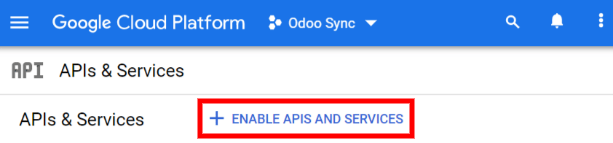
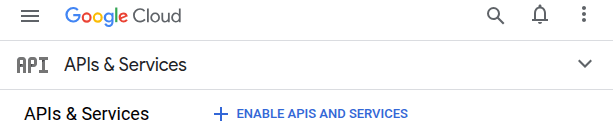
[IMP] calendar: update authorization steps
closes odoo/documentation#12320

X-original-commit: 7a2e6512cba50b832ab94b4641489d23c9c7b2a9

diff --git a/content/applications/productivity/calendar/google.rst b/content/applications/productivity/calendar/google.rst
@@ -29,14 +29,14 @@ in, and store credentials. Click :guilabel:`New Project`.
 .. image:: google/new-api-project.png
    :alt: Create a new API project to store credentials.
 
-.. tip::
-   Give the API Project a clear name, like "Odoo Sync", so it can be easily identified.
+Give the API project a clear name, like `Odoo Sync`, so it can be identified. Then click the
+:guilabel:`Create` button.
 
 Enable Google calendar API
 --------------------------
 
 Now, click on :guilabel:`Enabled APIs and Services` in the left menu. Select :guilabel:`Enabled APIs
-and Services` again if the :guilabel:`Search bar` doesn't appear.
+and Services` again if the :guilabel:`Search bar` does not appear.
 
 .. image:: google/enable-apis-services.png
    :alt: Enable APIs and Services on the API Project.
@@ -51,7 +51,7 @@ OAuth consent screen
 --------------------
 
 Now that the API project has been created, OAuth should be configured. To do that, click on
-:guilabel:`OAuth consent` in the left menu and then select the :guilabel:`User Type`.
+:guilabel:`OAuth consent screen` in the left menu, then click the :guilabel:`Get started` button.
 
 .. warning::
    *Personal* Gmail Accounts are only allowed to be **External** User Type, which means Google may
@@ -61,26 +61,38 @@ Now that the API project has been created, OAuth should be configured. To do tha
    Note, as well, that while the API connection is in the *External* testing mode, then no approval
    is necessary from Google. User limits in this testing mode is set to 100 users.
 
-In the second step, :guilabel:`OAuth Consent Screen`, type `Odoo` in the :guilabel:`App name` field,
-select the email address for the :guilabel:`User support email` field, and type the email address
-for the :guilabel:`Developer contact information` section. Then, click :guilabel:`Save and
-Continue`.
+Follow the proceeding steps, in order:
 
-Skip the third step, :menuselection:`Scopes`, by clicking :guilabel:`Save and Continue`.
+#. In :guilabel:`App Information`, type `Odoo` in the :guilabel:`App name` field, then enter the
+   email address for the :guilabel:`User support email` field and click the :guilabel:`Next` button.
+#. In :guilabel:`Audience`, select :guilabel:`External`, then click the :guilabel:`Next` button.
+#. In :guilabel:`Contact Information`, enter the email again, then click the :guilabel:`Next`
+   button.
+#. In :guilabel:`Finish`, tick the checkbox to agree to :guilabel:`Google API Services: User
+   Policy.` For the last step, click the :guilabel:`Create` button.
 
-Next, if continuing in testing mode (External), add the email addresses being configured under the
-:guilabel:`Test users` step, by clicking on :guilabel:`Add Users`, and then the :guilabel:`Save and
-Continue` button. A summary of the app registration appears.
+Authorized domain setup
+-----------------------
 
-Finally, scroll to the bottom, and click on :guilabel:`Back to Dashboard`.
+Next, any domains set to appear on the consent screen or in an OAuth client's configuration must be
+pre-registered. To do so, navigate to :guilabel:`Branding` in the left menu. In the
+:guilabel:`Authorized domains` section, click the :guilabel:`Add domain` button to create a field to
+enter an authorized domain. Enter a domain, such as `odoo.com`, then click the :guilabel:`Save`
+button at the bottom of the page.
 
-Now, the OAuth consent has been configured, and it's time to create credentials.
+Test users
+----------
+
+To give users the ability to sync with personal Gmail accounts, they must be set as a test user.
+Setup test users by going to :guilabel:`Audience` in the left-side menu and clicking the
+:guilabel:`Add users` button in the :guilabel:`Test users` section. Enter any desired user emails,
+and click the :guilabel:`Save` button.
 
 Create credentials
 ------------------
 
 The *Client ID* and the *Client Secret* are both needed to connect Google Calendar to Odoo. This is
-the last step in the Google console. Begin by clicking :guilabel:`Credentials` in the left menu.
+the last step in the Google console. Begin by clicking :guilabel:`Clients` in the left menu.
 Then, click :guilabel:`Create Credentials`, and select :guilabel:`OAuth client ID`, Google will open
 a guide to create credentials.
 
@@ -96,7 +108,7 @@ Under :menuselection:`Create OAuth Client ID`, select :guilabel:`Website applica
 .. image:: google/uri.png
    :alt: Add the authorized JavaScript origins and the authorized redirect URIs.
 
-A :guilabel:`Client ID` and :guilabel:`Client Secret` will appear, copy these to a notepad.
+A :guilabel:`Client ID` and :guilabel:`Client Secret` will appear, save these somewhere safe.
 
 Setup in Odoo
 =============
@@ -129,8 +141,8 @@ button to sync Google Calendar with Odoo.
 .. note::
    When syncing Google Calendar with Odoo for the first time, the page will redirect to the Google
    Account. From there, select the :guilabel:`Email Account` that should have access, then select
-   :guilabel:`Continue` (should the app be unverifed), and finally select :guilabel:`Continue` (to
-   give permission for the transfer of data)`.
+   :guilabel:`Continue` (should the app be unverified), and finally select :guilabel:`Continue` (to
+   give permission for the transfer of data).
 
 .. image:: google/trust-odoo.png
    :alt: Give Odoo permission to access Google Calendar.
